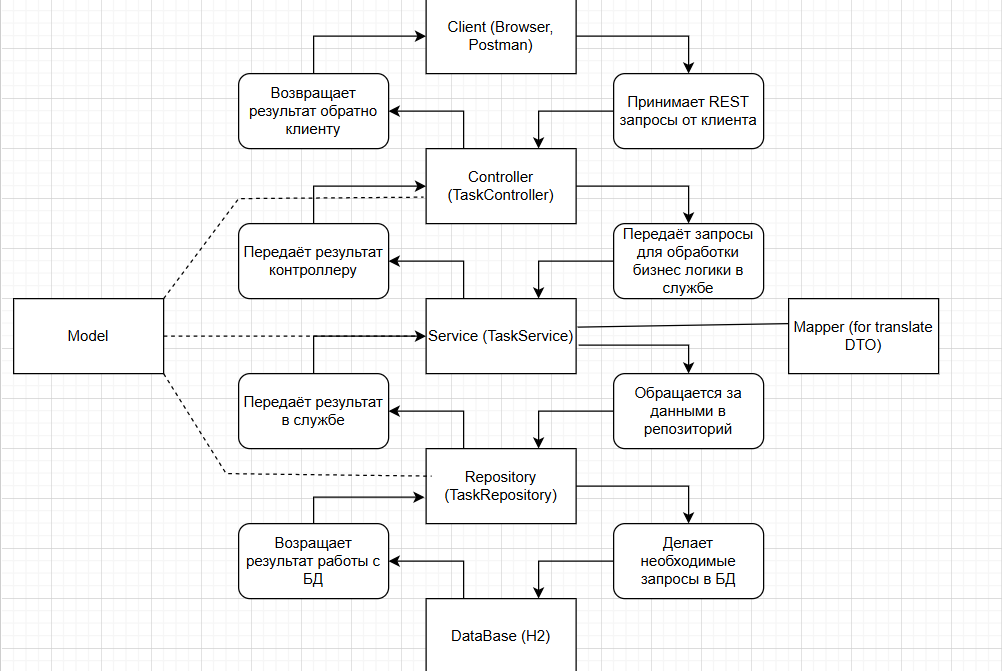
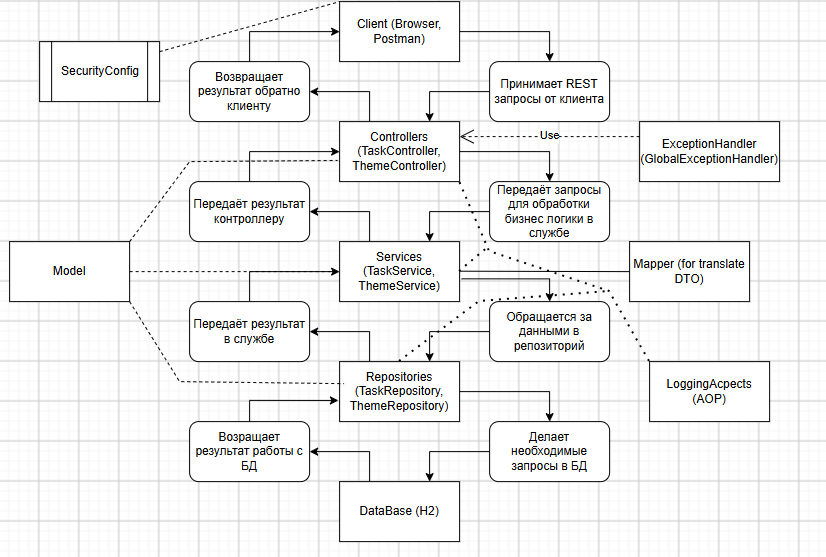
update ReadME

diff --git a/README.md b/README.md
@@ -56,7 +56,7 @@
 {
   "title": "Изучить Kotlin",
   "theme": "Обучение",
-  "author": "Алексей",
+  "author": "Фёдор",
   "description": "Пройти курс и сделать проект",
   "isStarted": false
 }
@@ -65,12 +65,17 @@
   ```json
 {
   "id": 1,
+  "theme": {
+    "id": 1,
+    "themeTitle": "Обучение",
+    "description": null,
+    "updateAt": "2026-08-02T15:14:32.305295"
+  },
   "title": "Изучить Kotlin",
-  "theme": "Обучение",
-  "author": "Алексей",
+  "author": "Фёдор",
   "description": "Пройти курс и сделать проект",
-  "isStarted": false,
-  "updateAt": "2026-07-07T18:00:00.000Z"
+  "updateAt": "2026-08-02T15:14:32.362767",
+  "started": false
 }
 ```
 
@@ -81,12 +86,17 @@
 [
   {
     "id": 1,
+    "theme": {
+      "id": 1,
+      "themeTitle": "Обучение",
+      "description": null,
+      "updateAt": "2026-08-02T15:14:32.305295"
+    },
     "title": "Изучить Kotlin",
-    "theme": "Обучение",
-    "author": "Алексей",
+    "author": "Фёдор",
     "description": "Пройти курс и сделать проект",
-    "updateAt": "2026-07-26T14:43:25.753632",
-    "isStarted": false
+    "updateAt": "2026-08-02T15:14:32.362767",
+    "started": false
   }
 ]
 ```
@@ -97,7 +107,7 @@
 {
   "title": "Изучить Kotlin и Spring",
   "theme": "Обучение",
-  "author": "Алексей",
+  "author": "Фёдор",
   "description": "Обновлённое описание",
   "isStarted": true
 }
@@ -106,13 +116,18 @@
 Ответ(200 OK):
 ```json
 {
+  "id": 1,
+  "theme": {
     "id": 1,
-    "title": "Изучить Kotlin и Spring",
-    "theme": "Обучение",
-    "author": "Алексей",
-    "description": "Обновлённое описание",
-    "updateAt": "2026-07-26T14:43:25.753632",
-    "isStarted": true
+    "themeTitle": "Обучение",
+    "description": null,
+    "updateAt": "2026-08-02T15:14:32.305295"
+  },
+  "title": "Изучить Kotlin и Spring",
+  "author": "Фёдор",
+  "description": "Обновлённое описание",
+  "updateAt": "2026-08-02T15:14:32.362767",
+  "started": true
 }
 ```
 
@@ -168,13 +183,13 @@ Password: (оставить пустым)\
 ✅ Чистое разделение слоёв (Controller → Service → Repository)\
 ✅ DTO + Mapper для изоляции API от сущностей БД\
 ✅ In-memory БД для быстрой разработки\
+✅ Разделение ответственности за разные таблицы на разные горизонтальные слои\
 ✅ Настройка через application.yml\
 ✅ Базовая аутентификация (Spring Security)\
 ✅ Мониторинг через Actuator\
-✅ Юнит- и интеграционные тесты
-✅ AOP-logging
+✅ Юнит- и интеграционные тесты\
+✅ AOP-logging\
 ✅ Централизованная обработка исключений(AOP)
-
 
 ## 🧠 Чему научился в этом проекте
 #### Создание REST API на Kotlin + Spring Boot 3
@@ -182,6 +197,7 @@ Password: (оставить пустым)\
 #### Проектирование архитектуры Controller-Service-Repository
 #### Валидация данных и обработка ошибок
 #### Использование DTO и мапперов
+#### Работа с несколькими таблицами, связывание
 #### Настройка H2 Database и подключение к ней
 #### Работа с Gradle (Kotlin DSL)
 #### Внедрение Basic Authentication (Spring Security)
